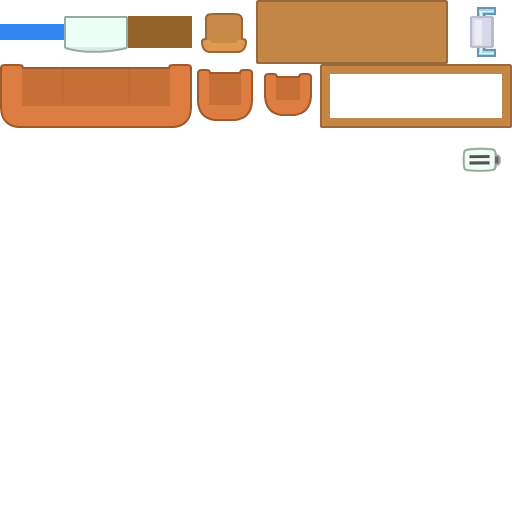
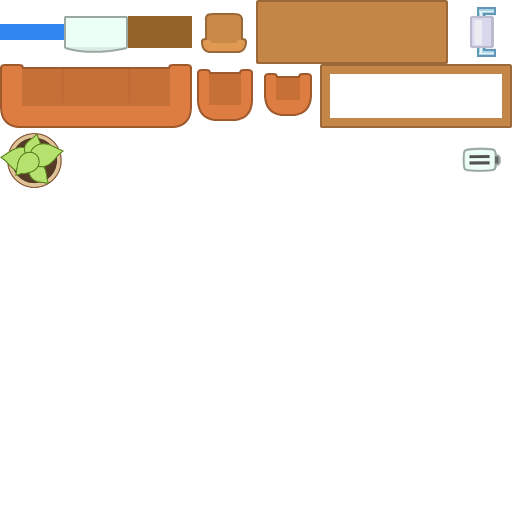
Added EntityFlowerPot w/ render

Changed region(s): [[0.0, 0.25, 0.125, 0.375]]

diff --git a/src/render/window/GameRender.cpp b/src/render/window/GameRender.cpp
@@ -179,6 +179,7 @@ void GameRender::initRenders() {
     entityRenders.insert(std::make_pair(typeid(EntityCoffeeTable).name(), new EntityWideRender(8)));
     entityRenders.insert(std::make_pair(typeid(EntityCouch).name(), new EntityWideRender(13)));
     entityRenders.insert(std::make_pair(typeid(EntityFurniture).name(), new EntityFurnitureRender()));
+    entityRenders.insert(std::make_pair(typeid(EntityFlowerPot).name(), new EntityFurnitureRender(16)));
     entityRenders.insert(std::make_pair(typeid(EntityStain).name(), new DefaultEntityRender("gui", "shader")));
     entityRenders.insert(std::make_pair(typeid(EntityHoover).name(), new DefaultEntityRender("shapes", "shader")));
     entityRenders.insert(std::make_pair(typeid(SimpleShape).name(), new SimpleShapeRender()));

diff --git a/src/core/map/Map.cpp b/src/core/map/Map.cpp
@@ -83,6 +83,7 @@ void Map::saveEntities() {
             else if (EntityCouch *p = dynamic_cast<EntityCouch *>(e)) id = 13;
             else if (EntityArmchair *p = dynamic_cast<EntityArmchair *>(e)) id = 14;
             else if (EntityPouf *p = dynamic_cast<EntityPouf *>(e)) id = 15;
+            else if (EntityFlowerPot *p = dynamic_cast<EntityFlowerPot *>(e)) id = 16;
             else continue;
             myfile << id << "," << e->getX() << "," << e->getY() << "," << e->getAngle();
             if (i != this->getEntities().size() - 1) {

diff --git a/src/core/map/entity/EntityFurniture.h b/src/core/map/entity/EntityFurniture.h
@@ -37,4 +37,18 @@ public:
 
 };
 
+class EntityFlowerPot : public EntityMoving {
+public:
+    EntityFlowerPot(Map *map) : EntityMoving(map, 0.85, 0.85) {
+        b2CircleShape shape;
+        shape.m_radius = 0.425;
+        b2FixtureDef fixDef;
+        fixDef.shape = &shape;
+        fixDef.density = 6.0f;
+        fixDef.friction = 0.1f;
+
+        this->body->CreateFixture(&fixDef);
+    }
+};
+
 #endif //C003_ENTITYFURNITURE_H

diff --git a/src/core/map/TiledTxtMapLoader.h b/src/core/map/TiledTxtMapLoader.h
@@ -146,6 +146,9 @@ TiledTxtMapLoader::TiledTxtMapLoader(const std::string &fileName) {
                     case 15:
                         sshape = new EntityPouf(this->map);
                         break;
+                    case 16:
+                        sshape = new EntityFlowerPot(this->map);
+                        break;
                     default:
                         break;
 

diff --git a/src/window/DesktopGame.cpp b/src/window/DesktopGame.cpp
@@ -66,7 +66,7 @@ void Game::tick(double deltaTime) {
     }
 
     static float ghostMovement = -1.5f;
-    ghostMovement += deltaTime * 0.95s;
+    ghostMovement += deltaTime * 0.95;
     for (int i = 0; i < 3; i++) {
         this->popup[i]->setVisible(false);
     }
